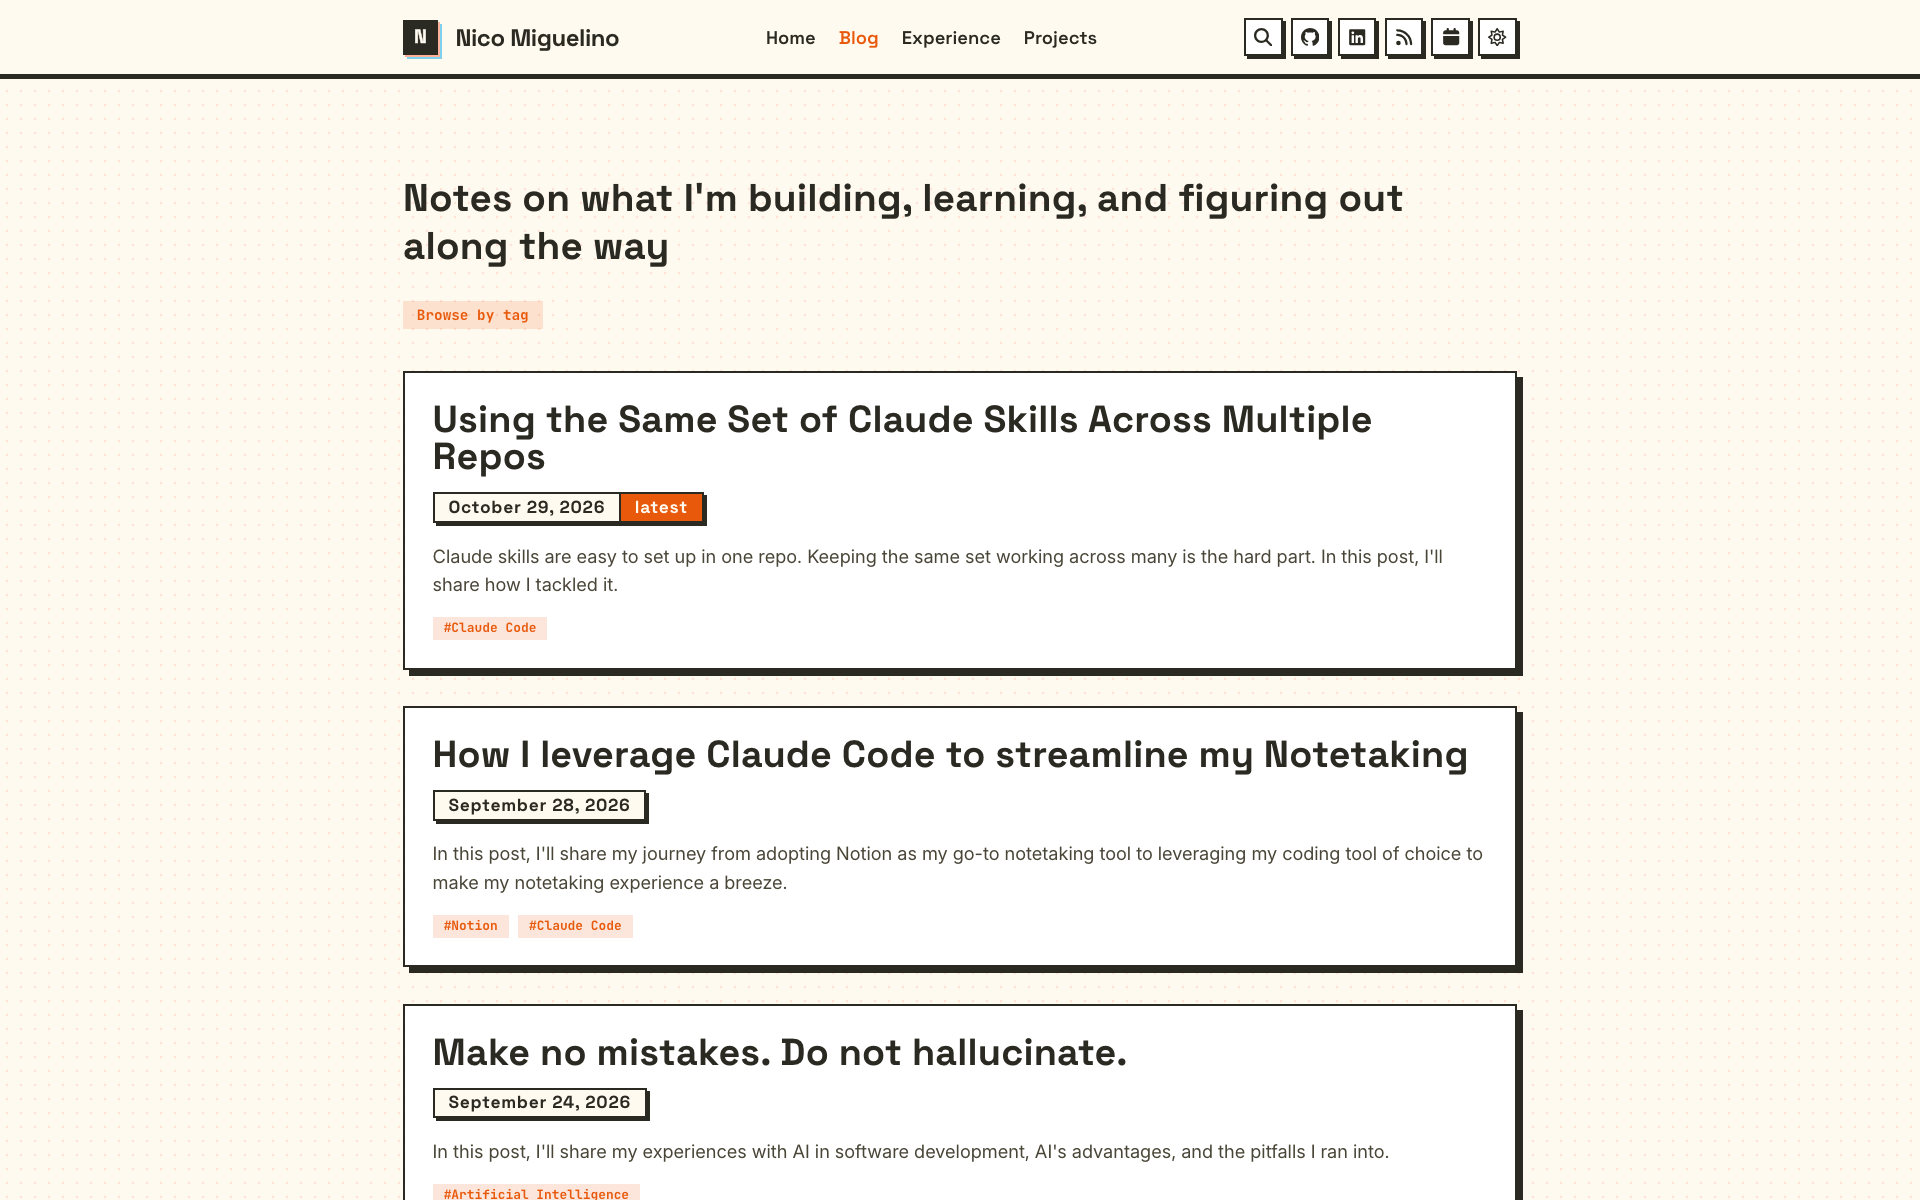
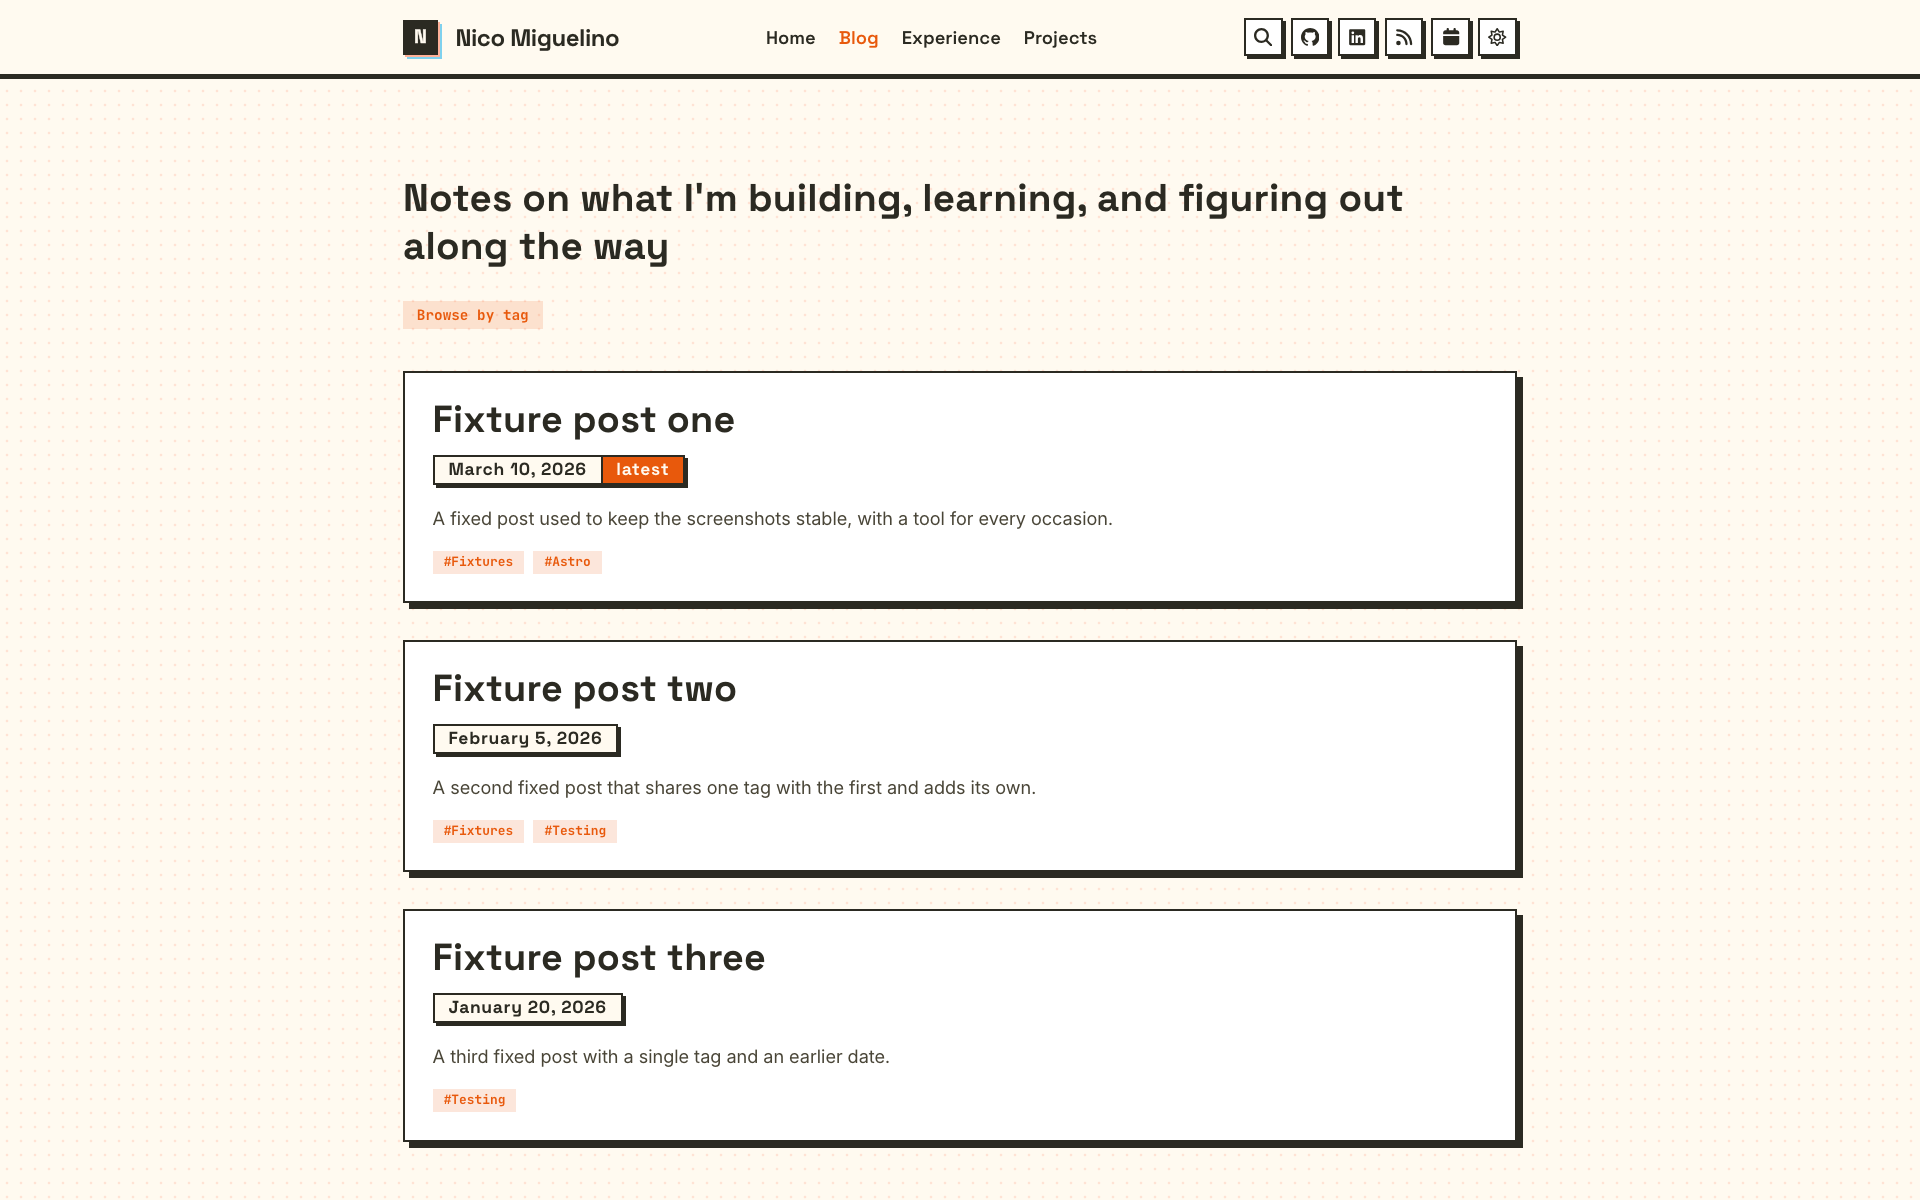
refactor(screenshots): generate screenshots idempotently
Load fixture posts for the screenshot build and pause SVG animations before capture.

Changed region(s): [[0.2188, 0.3392, 0.8125, 1.0], [0.7812, 0.9558, 0.8125, 1.0], [0.7812, 0.74, 0.8125, 0.7708]]

diff --git a/src/tests/screenshots/support.ts b/src/tests/screenshots/support.ts
@@ -37,6 +37,16 @@ async function freezeParticleAnimations(page: Page): Promise<void> {
   });
 }
 
+async function freezeSvgAnimations(page: Page): Promise<void> {
+  await page.evaluate((): void => {
+    const svgElements: SVGSVGElement[] = Array.from(document.querySelectorAll('svg'));
+    svgElements.forEach((svgElement: SVGSVGElement): void => {
+      svgElement.pauseAnimations();
+      svgElement.setCurrentTime(0);
+    });
+  });
+}
+
 export function defineScreenshotTests(
   pageName: string,
   path: string,
@@ -50,6 +60,7 @@ export function defineScreenshotTests(
         await page.clock.setFixedTime(new Date(season.date));
         await page.emulateMedia({ colorScheme });
         await page.goto(path);
+        await freezeSvgAnimations(page);
         if (options.keepAnimations) {
           await freezeParticleAnimations(page);
           await page.screenshot({ path: outputPath, animations: 'allow' });

diff --git a/src/content.config.ts b/src/content.config.ts
@@ -2,8 +2,10 @@ import { defineCollection } from 'astro:content';
 import { z } from 'astro/zod';
 import { glob } from 'astro/loaders';
 
+const BLOG_DIRECTORY: string = process.env.USE_FIXTURE_POSTS ? './src/tests/fixtures/blog' : './src/content/blog';
+
 const blog = defineCollection({
-  loader: glob({ pattern: '*.{md,mdx}', base: './src/content/blog' }),
+  loader: glob({ pattern: '*.{md,mdx}', base: BLOG_DIRECTORY }),
   schema: z.object({
     title: z.string(),
     description: z.string(),

diff --git a/playwright.config.ts b/playwright.config.ts
@@ -12,6 +12,7 @@ export default defineConfig({
     command: SERVER_COMMAND,
     url: BASE_URL,
     timeout: SERVER_TIMEOUT_MS,
+    env: { USE_FIXTURE_POSTS: 'true' },
     reuseExistingServer: !process.env.CI,
   },
   use: {

diff --git a/src/tests/screenshots/blog-post.spec.ts b/src/tests/screenshots/blog-post.spec.ts
@@ -1,3 +1,3 @@
 import { defineScreenshotTests } from './support';
 
-defineScreenshotTests('blog-post', '/blog/initial-post/');
+defineScreenshotTests('blog-post', '/blog/fixture-post-one/');

diff --git a/README.md b/README.md
@@ -71,6 +71,7 @@ Tests use [Playwright](https://playwright.dev) and live in `src/tests/`:
 
 - `src/tests/e2e/`: behavior checks, e.g. the home page title
 - `src/tests/screenshots/`: captures a screenshot of each page, one spec per page
+- `src/tests/fixtures/blog/`: fixture posts the Playwright build uses in place of the real ones
 
 Set up once per machine:
 
@@ -95,6 +96,8 @@ bunx playwright show-report                              # open the last HTML re
 - The clock is pinned (July 15 for summer, Oct 15 for autumn, Jan 15 for winter, Apr 15 for spring), so results don't depend on today's date.
 - `falling-particles` captures the home page with the falling effects frozen mid-fall (autumn, winter and spring; summer has no particles), since the other screenshots disable animations and so hide the particles.
 - The color scheme is emulated with `prefers-color-scheme`.
+- Content is pinned too. The Playwright build sets `USE_FIXTURE_POSTS`, which makes the content collection in `src/content.config.ts` load the posts in `src/tests/fixtures/blog/` instead of `src/content/blog/`. Adding or editing a real post leaves `screenshots/` unchanged, and `blog-post` points at `/blog/fixture-post-one/`.
+- Fixture posts have fixed titles, tags, and dates. Edit them only when a screenshot should change, and keep a word like "tool" in one of them, since the search E2E spec queries it.
 - Screenshots are written to `screenshots/` (overwriting the previous ones) and are not part of the deployed site. Names look like `home-autumn-dark.png`.
 - They are captured, not compared, so the tests don't fail on visual changes. Review the images in `git diff` before committing.
 - To add a page, create `src/tests/screenshots/<page>.spec.ts` that calls `defineScreenshotTests('<page>', '/<path>/')` from `./support`. Pass `[SUMMER_SEASON, AUTUMN_SEASON, WINTER_SEASON, SPRING_SEASON]` as a third argument to cover every palette.
